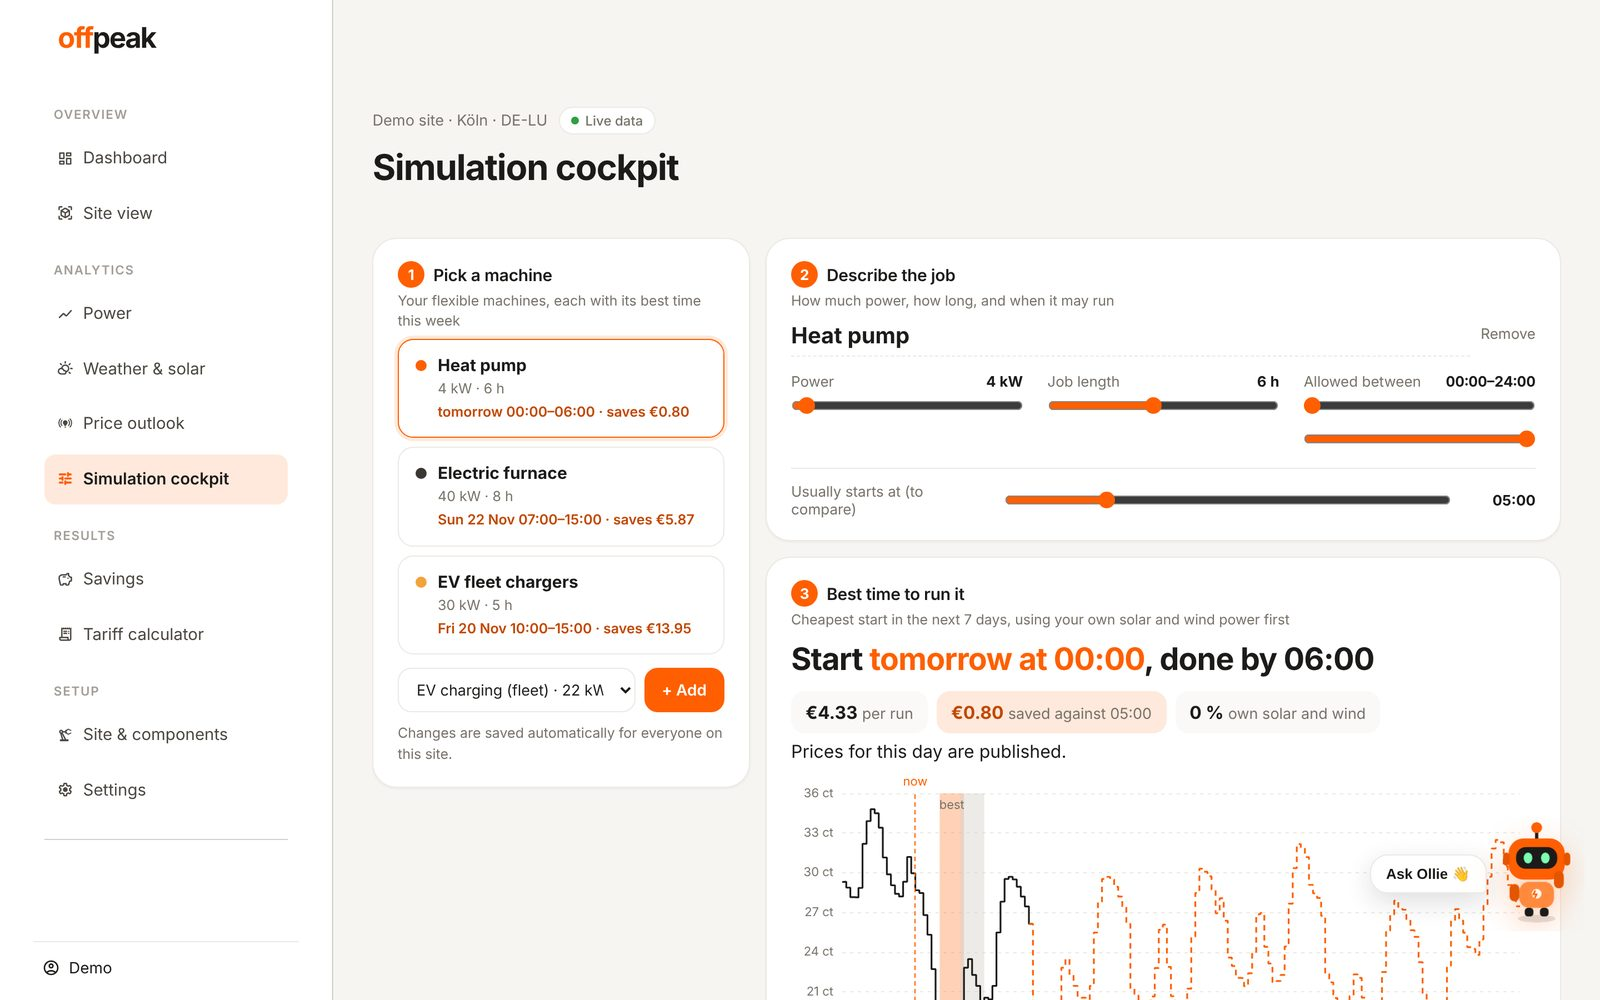
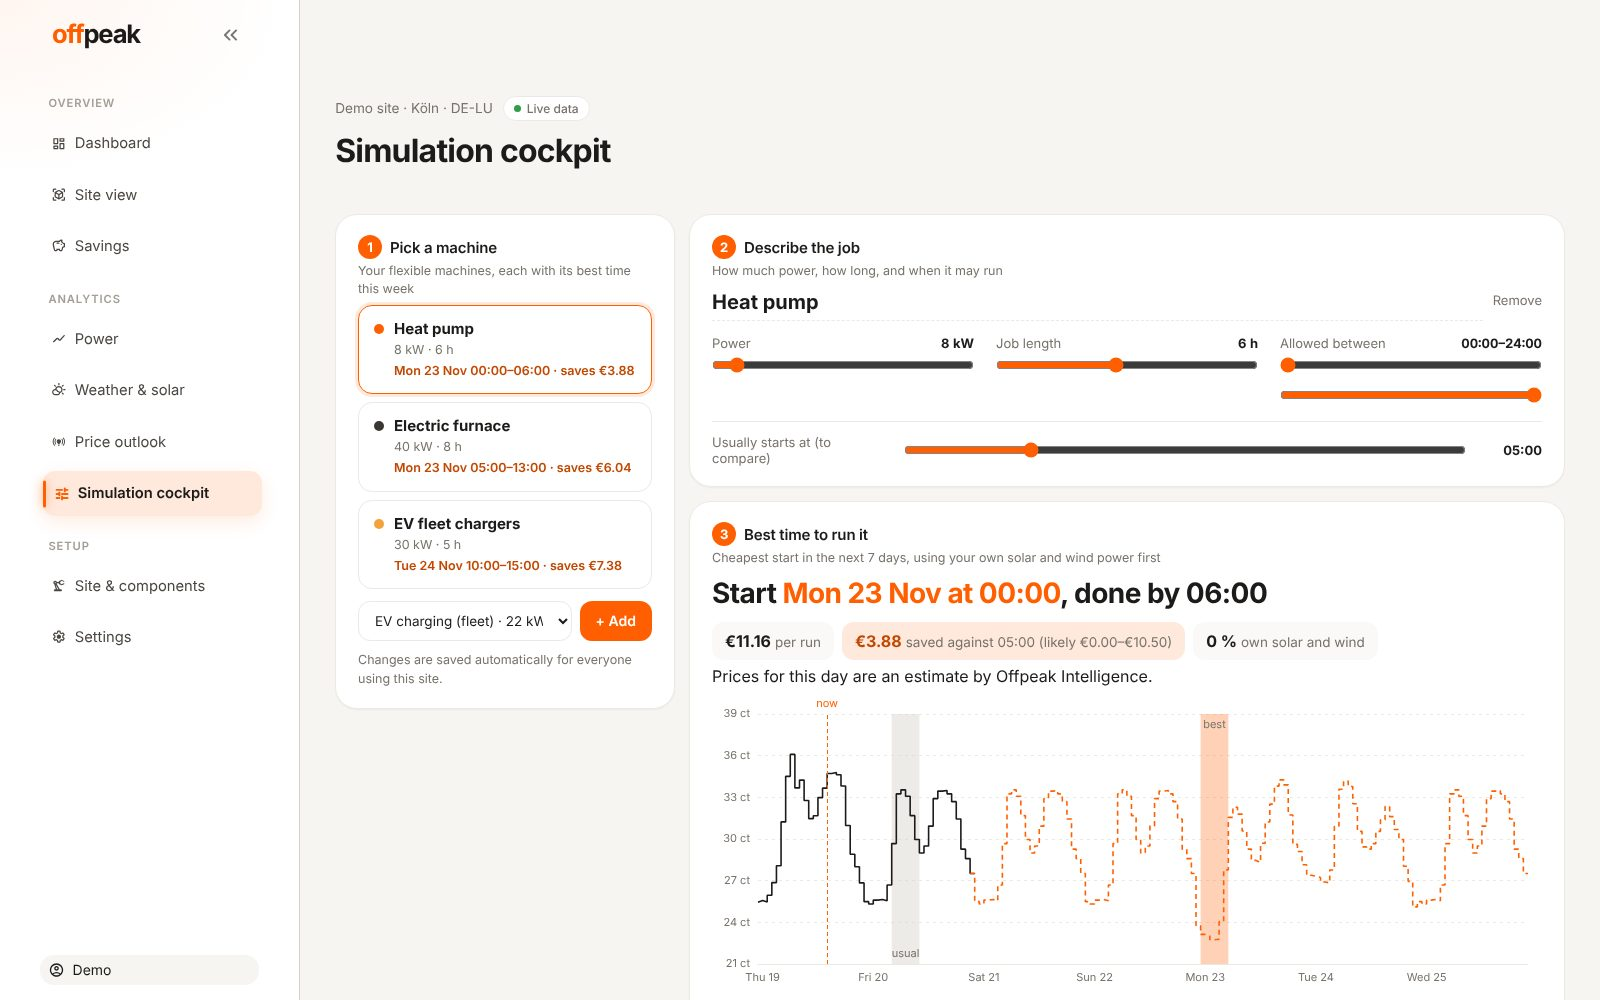
Landing: zoom into the site view on scroll, app screens that fly up and stack, stronger fly-in reveals
Claude-Session: https://claude.ai/code/session_01DjU9PKF7dAKpqbxW5oNaXg

diff --git a/app/ui/web/landing.html b/app/ui/web/landing.html
@@ -468,6 +468,65 @@
     .nw .rise { animation: none; opacity: 1; transform: none; filter: none; }
     .nw-view canvas { transition: none; }
   }
+
+  /* ── zoom into the site: a window on the site view grows to fill the screen as you scroll
+     (HorizonX "Scroll Expand", adapted: our screenshot, our copy, the night colours) ── */
+  .sxp-section { padding: 0; background: #07080A; position: relative; z-index: 2; }
+  .sxp-root { position: relative; width: 100%; }
+  .sxp-track { position: relative; width: 100%; }
+  .sxp-stage { position: sticky; top: 0; width: 100%; overflow: hidden; --sxp-title-size: 4rem; }
+  .sxp-frame { position: absolute; inset: 0; clip-path: inset(21% 22% 21% 22% round 96px); will-change: clip-path; box-shadow: 0 0 0 1px rgba(255,255,255,.06); }
+  .sxp-media { position: absolute; inset: 0; width: 100%; height: 100%; object-fit: cover; object-position: 50% 30%; will-change: transform; transform-origin: center; user-select: none; -webkit-user-drag: none; }
+  .sxp-scrim { position: absolute; inset: 0; pointer-events: none; opacity: 0; background: linear-gradient(to top, rgba(7,8,10,.92), rgba(7,8,10,.55) 38%, rgba(7,8,10,.1) 62%, rgba(7,8,10,.25)); }
+  .sxp-overlay { position: absolute; inset: 0; display: flex; flex-direction: column; align-items: center; justify-content: flex-end; gap: .75rem; text-align: center; padding: 6% 6% 9%; opacity: 0; will-change: opacity, transform; color: #fff; }
+  .sxp-overlay-title { margin: 0; font: 500 clamp(28px, 4vw, 56px)/1.05 var(--display); letter-spacing: -.035em; text-shadow: 0 2px 24px rgba(0,0,0,.45); }
+  .sxp-overlay-title b { color: var(--accent); font-weight: 500; }
+  .sxp-overlay-body { margin: 0; max-width: 52ch; font-size: clamp(15px, 1.4vw, 18px); line-height: 1.5; color: rgba(255,255,255,.8); text-shadow: 0 1px 16px rgba(0,0,0,.5); }
+  .sxp-title { position: absolute; left: 0; right: 0; top: 11%; display: flex; justify-content: center; margin: 0; padding: 0 6%; text-align: center; font: 500 var(--sxp-title-size)/1 var(--display); letter-spacing: -.045em; color: #EEF0F2; pointer-events: none; will-change: opacity, transform; }
+  .sxp-title b { color: var(--accent); font-weight: 500; text-shadow: 0 0 40px rgba(255,95,0,.4); }
+  .sxp-hint { position: absolute; left: 0; right: 0; bottom: 1.4rem; text-align: center; font-family: var(--mono); font-size: 11px; letter-spacing: .16em; text-transform: uppercase; color: rgba(238,240,242,.5); pointer-events: none; will-change: opacity, transform; }
+
+  /* ── a look inside: app screens fly up and stack (HorizonX "Scroll Stack", adapted:
+     CSS transitions instead of the GSAP library, our screens and copy) ── */
+  .ssc-section { padding: 70px 0 90px; background: #07080A; color: #EEF0F2; position: relative; z-index: 2; }
+  .ssc-section .ssc-head { text-align: center; margin: 0 auto 8px; padding: 0 24px; }
+  .ssc-section .ssc-head .eyebrow { color: rgba(238,240,242,.55); }
+  .ssc-section .ssc-head h2 { color: #EEF0F2; margin-bottom: 8px; }
+  .ssc-section .ssc-head p { color: rgba(238,240,242,.6); margin: 0; }
+  .ssc-frame { display: flex; align-items: center; justify-content: center; width: 100%; height: 680px; overflow: hidden; }
+  .ssc-viewport { --ssc-card-width: 900px; --ssc-card-height: 520px; --ssc-radius: 22px; --ssc-offset: 0px; position: relative; flex: 0 0 auto; width: 1088px; max-width: 100%; height: 680px; overflow: hidden; isolation: isolate; color: #fff; font-family: Inter, system-ui, sans-serif; }
+  .ssc-stack { position: absolute; inset: 0; overflow: hidden; outline: none; perspective: 1400px; touch-action: pan-y; cursor: ns-resize; }
+  .ssc-stack[data-dragging='true'] { cursor: grabbing; }
+  .ssc-card { position: absolute; left: 50%; top: 70px; display: block; width: min(var(--ssc-card-width), calc(100% - 40px)); height: var(--ssc-card-height); overflow: hidden; border-radius: var(--ssc-radius); background: #171717;
+    transform-origin: 50% 0; will-change: transform, filter, opacity; box-shadow: 0 30px 80px rgba(0,0,0,.55), 0 0 0 1px rgba(255,255,255,.06);
+    transition: transform .55s cubic-bezier(.2,.8,.2,1), opacity .55s cubic-bezier(.2,.8,.2,1), filter .55s cubic-bezier(.2,.8,.2,1); }
+  .ssc-card:focus-visible { outline: 2px solid var(--accent); outline-offset: -4px; }
+  .ssc-media, .ssc-scrim { position: absolute; inset: 0; width: 100%; height: 100%; }
+  .ssc-media { object-fit: cover; object-position: 50% 0; pointer-events: none; }
+  .ssc-scrim { background: linear-gradient(180deg, rgb(0 0 0 / 0) 40%, rgb(7 8 10 / .9) 100%); pointer-events: none; }
+  .ssc-top-count { position: absolute; top: 24px; right: 26px; color: rgb(28 27 25 / .55); font-family: var(--mono); font-size: 10px; letter-spacing: .16em; }
+  .ssc-copy { position: absolute; left: 36px; right: 36px; bottom: 32px; display: grid; gap: 10px; text-align: left; }
+  .ssc-eyebrow { color: #FFB27A; font-family: var(--mono); font-size: 10.5px; font-weight: 500; letter-spacing: .2em; }
+  .ssc-title { font-family: var(--display); font-size: 34px; font-weight: 500; letter-spacing: -.03em; line-height: 1.05; }
+  .ssc-body { max-width: 520px; color: rgb(255 255 255 / .72); font-size: 16px; line-height: 1.5; }
+  .ssc-footer { position: absolute; left: 50%; bottom: 26px; z-index: 300; display: flex; align-items: center; gap: 16px; transform: translateX(-50%); }
+  .ssc-progress { display: flex; width: 176px; height: 8px; align-items: center; gap: 4px; }
+  .ssc-segment { flex: 1; height: 2px; border: 0; padding: 0; background: rgb(255 255 255 / .16); cursor: pointer; border-radius: 2px; transition: background .3s; }
+  .ssc-segment[data-complete='true'] { background: var(--accent); }
+  .ssc-footer-count { color: rgba(238,240,242,.55); font-family: var(--mono); font-size: 10px; letter-spacing: .16em; white-space: nowrap; }
+  .ssc-status { position: absolute; width: 1px; height: 1px; overflow: hidden; clip: rect(0 0 0 0); white-space: nowrap; }
+  @media (max-width: 700px) {
+    .ssc-frame, .ssc-viewport { height: 520px; } .ssc-viewport { --ssc-card-height: 380px; }
+    .ssc-card { top: 50px; width: calc(100% - 28px); } .ssc-copy { left: 22px; right: 22px; bottom: 22px; gap: 8px; }
+    .ssc-title { font-size: 26px; } .ssc-body { font-size: 14.5px; } .ssc-top-count { top: 18px; right: 18px; }
+  }
+  @media (prefers-reduced-motion: reduce) { .ssc-card { transition: none; } }
+
+  /* everything that reveals itself on the rest of the page flies in: from further down,
+     a little smaller and out of focus */
+  .reveal { opacity: 0; transform: translateY(70px) scale(.94); filter: blur(10px); transition: opacity 1s var(--ease), transform 1.1s var(--ease), filter 1s var(--ease); transition-delay: var(--d, 0s); }
+  .reveal.in { opacity: 1; transform: none; filter: none; }
+  @media (prefers-reduced-motion: reduce) { .reveal { opacity: 1; transform: none; filter: none; transition: none; } }
 </style>
 </head>
 <body>
@@ -496,7 +555,7 @@
 
 <main id="top">
   <!-- ── the night window: the first screen ── -->
-  <section class="nw" id="nw" aria-label="offpeak">
+  <section class="nw" id="nw" data-dark aria-label="offpeak">
     <div class="nw-top">
       <div class="nw-eyebrow rise" style="--i:1"><i></i>Live from the German grid · DE-LU</div>
       <h1 class="rise" style="--i:2">Peak prices are <b>optional.</b><em>Run every machine in the cheapest quarter-hours.</em></h1>
@@ -524,6 +583,33 @@
       <span class="tele" aria-label="Example readout"><span>SPOT <b id="nw-spot">8.42</b> ct/kWh</span><span>LOAD <b id="nw-load">54.1</b> GW</span><span>WIND <b id="nw-wind">21.3</b> GW</span><span>EXAMPLE</span></span>
       <span>© 2026 offpeak</span>
     </div>
+  </section>
+
+  <!-- ── zoom into the site (scrolling grows the window to the full screen) ── -->
+  <section class="sxp-section" data-dark aria-label="The site view">
+    <div class="sxp-root" id="sxp"><div class="sxp-track"><div class="sxp-stage">
+      <div class="sxp-frame">
+        <img class="sxp-media" src="/app/static/tour/site.jpg" alt="The offpeak site view: a 3D model of the demo site with solar, wind, battery and machines, and the day plan below" draggable="false" decoding="async">
+        <div class="sxp-scrim"></div>
+        <div class="sxp-overlay"><h3 class="sxp-overlay-title">Every machine. <b>Every quarter-hour.</b></h3><p class="sxp-overlay-body">Solar, wind, battery and every machine in one live 3D model, planned around tomorrow's prices. Drag parts around and the plan follows.</p></div>
+      </div>
+      <div class="sxp-title">Zoom into&nbsp;<b>your site.</b></div>
+      <div class="sxp-hint">Scroll</div>
+    </div></div></div>
+  </section>
+
+  <!-- ── a look inside: the app's screens fly up one after another ── -->
+  <section class="ssc-section" data-dark aria-label="A look inside the app">
+    <div class="ssc-head reveal"><div class="eyebrow">A look inside</div><h2>Five screens. <em style="font-style:normal;color:var(--accent)">One plan.</em></h2><p>Scroll or drag over the cards. Real screens with demo data.</p></div>
+    <div class="ssc-frame"><div class="ssc-viewport" role="region" aria-label="Screens of the app"><div class="ssc-stack" role="group" aria-roledescription="carousel" aria-label="Screens of the app. Use the mouse wheel, drag vertically, or press the arrow keys." tabindex="0">
+      <article class="ssc-card" aria-label="Dashboard"><img class="ssc-media" src="/app/static/tour/dashboard.jpg" alt="The dashboard: the price right now and the week plan for every machine" draggable="false" decoding="async"><span class="ssc-scrim" aria-hidden="true"></span><span class="ssc-top-count" aria-hidden="true">01/05</span><span class="ssc-copy"><span class="ssc-eyebrow">01 · DASHBOARD</span><span class="ssc-title">Today, at a glance</span><span class="ssc-body">The price right now, what runs next, and what the plan has saved so far.</span></span></article>
+      <article class="ssc-card" aria-label="Site view"><img class="ssc-media" src="/app/static/tour/site.jpg" alt="The site view: a 3D model of the site with its power flows" draggable="false" decoding="async"><span class="ssc-scrim" aria-hidden="true"></span><span class="ssc-top-count" aria-hidden="true">02/05</span><span class="ssc-copy"><span class="ssc-eyebrow">02 · SITE VIEW</span><span class="ssc-title">Your site, live in 3D</span><span class="ssc-body">Every machine and every power flow, hour by hour, with the plan and the usual day side by side.</span></span></article>
+      <article class="ssc-card" aria-label="Savings"><img class="ssc-media" src="/app/static/tour/savings.jpg" alt="The savings page: what the plan saved each of the last 30 days" draggable="false" decoding="async"><span class="ssc-scrim" aria-hidden="true"></span><span class="ssc-top-count" aria-hidden="true">03/05</span><span class="ssc-copy"><span class="ssc-eyebrow">03 · SAVINGS</span><span class="ssc-title">Proof, in euros</span><span class="ssc-body">Every past day replayed with the real prices and weather: what the plan would have saved.</span></span></article>
+      <article class="ssc-card" aria-label="Power"><img class="ssc-media" src="/app/static/tour/power.jpg" alt="The power page: tomorrow's prices per quarter-hour" draggable="false" decoding="async"><span class="ssc-scrim" aria-hidden="true"></span><span class="ssc-top-count" aria-hidden="true">04/05</span><span class="ssc-copy"><span class="ssc-eyebrow">04 · POWER</span><span class="ssc-title">Tomorrow, every quarter-hour</span><span class="ssc-body">The cheapest block for every job length, before the day starts.</span></span></article>
+      <article class="ssc-card" aria-label="Home view"><img class="ssc-media" src="/app/static/tour/home.jpg" alt="The home view: a house with solar, battery, heat pump and wallbox" draggable="false" decoding="async"><span class="ssc-scrim" aria-hidden="true"></span><span class="ssc-top-count" aria-hidden="true">05/05</span><span class="ssc-copy"><span class="ssc-eyebrow">05 · HOME VIEW</span><span class="ssc-title">For homes, too</span><span class="ssc-body">Heat pump, wallbox, washing machine: the same plan for a household, with § 14a tariffs.</span></span></article>
+    </div>
+    <div class="ssc-footer"><div class="ssc-progress" role="group" aria-label="Choose a screen"><button class="ssc-segment" type="button" aria-label="Show screen 1"></button><button class="ssc-segment" type="button" aria-label="Show screen 2"></button><button class="ssc-segment" type="button" aria-label="Show screen 3"></button><button class="ssc-segment" type="button" aria-label="Show screen 4"></button><button class="ssc-segment" type="button" aria-label="Show screen 5"></button></div><span class="ssc-footer-count"><span class="ssc-current">01</span> / 05</span></div>
+    <p class="ssc-status" aria-live="polite"></p></div></div>
   </section>
 
   <!-- ── hero ── -->
@@ -1411,13 +1497,84 @@
       setInterval(() => { if (!on) return; tele.forEach(r => { r.v += (Math.random() - .5) * r.d + (r.base - r.v) * .08; r.el.textContent = r.v.toFixed(r.n); }); }, 1000);
     }
     requestAnimationFrame(() => sec.classList.add('live'));
-    // the menu bar turns dark over this screen
-    const onScroll = () => nav.classList.toggle('on-dark', scrollY < sec.offsetHeight - 60);
+    // the menu bar turns dark over every dark section (this screen, the zoom, the screens)
+    const darks = $$('[data-dark]');
+    const onScroll = () => nav.classList.toggle('on-dark', darks.some(d => { const r = d.getBoundingClientRect(); return r.top < 44 && r.bottom > 44; }));
     addEventListener('scroll', onScroll, { passive: true }); onScroll();
   }
 
+  // ── zoom into the site: the window's clip opens with the scroll position ──
+  // (HorizonX "Scroll Expand": the same curves, with our values filled in)
+  function zoomSite() {
+    const root = $('#sxp'); if (!root) return;
+    const track = root.querySelector('.sxp-track'), stage = root.querySelector('.sxp-stage'), frame = root.querySelector('.sxp-frame');
+    const media = root.querySelector('.sxp-media'), scrim = root.querySelector('.sxp-scrim'), title = root.querySelector('.sxp-title');
+    const hint = root.querySelector('.sxp-hint'), overlay = root.querySelector('.sxp-overlay');
+    const ramp = (x, a, b) => { const t = clamp((x - a) / ((b - a) || 1e-6), 0, 1); return t * t * (3 - 2 * t); };
+    const aperture = t => 1 - Math.pow(1 - clamp(t, 0, 1), 2.4);
+    const W0 = 56, H0 = 58, R0 = 96, ZOOM = 1.18, REST = W0 * H0 / 10000, LENGTH = 1.3;
+    const coverage = a => clamp(((W0 + (100 - W0) * a) * (H0 + (100 - H0) * a) / 10000 - REST) / (1 - REST), 0, 1);
+    let current = 0, target = 0, stageH = 0, running = false;
+    const apply = p => {
+      const a = aperture(p), w = W0 + (100 - W0) * a, h = H0 + (100 - H0) * a;
+      frame.style.clipPath = `inset(${(100 - h) / 2}% ${(100 - w) / 2}% ${(100 - h) / 2}% ${(100 - w) / 2}% round ${R0 * (1 - a)}px)`;
+      media.style.transform = `scale(${ZOOM + (1 - ZOOM) * aperture((p - .18) / .82)})`;
+      const cov = coverage(a);
+      scrim.style.opacity = String(.95 * cov);
+      const out = ramp(cov, .24, .85); title.style.opacity = String(1 - out); title.style.transform = `translate3d(0,${-22 * out}px,0) scale(${1 - .04 * out})`;
+      const gone = ramp(cov, 0, .09); hint.style.opacity = String(1 - gone);
+      const inn = ramp(cov, .78, 1); overlay.style.opacity = String(inn); overlay.style.transform = `translate3d(0,${22 * (1 - inn)}px,0)`;
+    };
+    const measure = () => { stageH = innerHeight; stage.style.height = stageH + 'px'; track.style.height = stageH * 2.75 + 'px';
+      stage.style.setProperty('--sxp-title-size', clamp(root.clientWidth * .065, 30, 84) + 'px'); };
+    const read = () => clamp(-track.getBoundingClientRect().top / (stageH * LENGTH), 0, 1);
+    const tick = () => { current += (target - current) * .16; if (Math.abs(target - current) < .0004) { current = target; running = false; } apply(current); if (running) requestAnimationFrame(tick); };
+    addEventListener('scroll', () => { target = read(); if (calm) { current = target; apply(current); return; } if (!running) { running = true; requestAnimationFrame(tick); } }, { passive: true });
+    addEventListener('resize', () => { measure(); target = current = read(); apply(current); });
+    measure(); target = current = read(); apply(current);
+  }
+
+  // ── a look inside: five screens fly up from below and stack (wheel, drag, keys, dots) ──
+  // (HorizonX "Scroll Stack", with CSS transitions instead of the GSAP library)
+  function screenStack() {
+    const stack = $('.ssc-stack'); if (!stack) return;
+    const cards = [...stack.querySelectorAll('.ssc-card')], dots = $$('.ssc-segment'), cur = $('.ssc-current'), status = $('.ssc-status');
+    const DEPTH = 3, PEEK = 30, STEP = .07, BLUR = 4, DIM = .32, n = cards.length;
+    let active = 0, wheel = 0, wheelTimer = 0, dragging = false, startY = 0, pid = null;
+    const render = i => {
+      active = clamp(i, 0, n - 1);
+      cards.forEach((card, k) => {
+        const behind = active - k, mounted = behind >= 0 && behind <= DEPTH, now = behind === 0;
+        const y = mounted ? -behind * PEEK * .5 : card.offsetHeight + 160;     // not yet shown: waiting below
+        const scale = mounted ? Math.max(.58, 1 - behind * STEP) : 1;
+        card.style.transform = `translateX(-50%) translateY(${y}px) scale(${scale})`;
+        card.style.opacity = mounted ? '1' : '0';
+        card.style.filter = `blur(${now ? 0 : Math.min(BLUR, BLUR * behind)}px) brightness(${now ? 1 : Math.max(.15, 1 - DIM * Math.max(1, behind))})`;
+        card.style.zIndex = String(100 + k); card.style.pointerEvents = now ? 'auto' : 'none';
+        card.setAttribute('aria-hidden', mounted ? 'false' : 'true');
+      });
+      dots.forEach((d, k) => { d.dataset.complete = String(k <= active); d.setAttribute('aria-current', k === active ? 'true' : 'false'); });
+      cur.textContent = String(active + 1).padStart(2, '0'); status.textContent = `Screen ${active + 1} of ${n}`;
+    };
+    stack.addEventListener('wheel', e => {   // the wheel moves through the cards; at the ends the page scrolls on
+      if (Math.abs(e.deltaY) < Math.abs(e.deltaX)) return;
+      const dir = Math.sign(e.deltaY);
+      if ((dir < 0 && active === 0) || (dir > 0 && active === n - 1)) return;
+      e.preventDefault(); wheel += e.deltaY; clearTimeout(wheelTimer); wheelTimer = setTimeout(() => { wheel = 0; }, 160);
+      if (Math.abs(wheel) >= 42) { render(active + Math.sign(wheel)); wheel = 0; }
+    }, { passive: false });
+    stack.addEventListener('keydown', e => { const k = { ArrowDown: 1, PageDown: 1, ArrowUp: -1, PageUp: -1 }[e.key]; if (k) { e.preventDefault(); render(active + k); } });
+    stack.addEventListener('pointerdown', e => { if (e.button) return; dragging = true; pid = e.pointerId; startY = e.clientY; stack.setPointerCapture(pid); stack.dataset.dragging = 'true'; });
+    const up = e => { if (!dragging || e.pointerId !== pid) return; dragging = false; stack.dataset.dragging = 'false'; const d = startY - e.clientY; if (Math.abs(d) > 28) render(active + Math.sign(d)); };
+    stack.addEventListener('pointerup', up); stack.addEventListener('pointercancel', up);
+    dots.forEach((d, k) => d.addEventListener('click', () => render(k)));
+    render(0);
+    // the first time the stack comes into view, the next screen flies in by itself as a hint
+    if (!calm) new IntersectionObserver((es, o) => { if (es[0].isIntersecting) { o.disconnect(); setTimeout(() => { if (active === 0) render(1); }, 700); } }, { threshold: .6 }).observe(stack);
+  }
+
   const ready = () => { $('#nw') && $('#nw').classList.add('go'); headline(0); typewriter(); };
-  nightWindow(); lines(); cursor(); scrolling(); shift(); marquee(); statement(); counters(); steps(); tiles(); who(); pricing(); clock(); tour(); login(); sectionLinks(); clearPortal();
+  nightWindow(); zoomSite(); screenStack(); lines(); cursor(); scrolling(); shift(); marquee(); statement(); counters(); steps(); tiles(); who(); pricing(); clock(); tour(); login(); sectionLinks(); clearPortal();
   intro(ready);
 })();
 </script>
